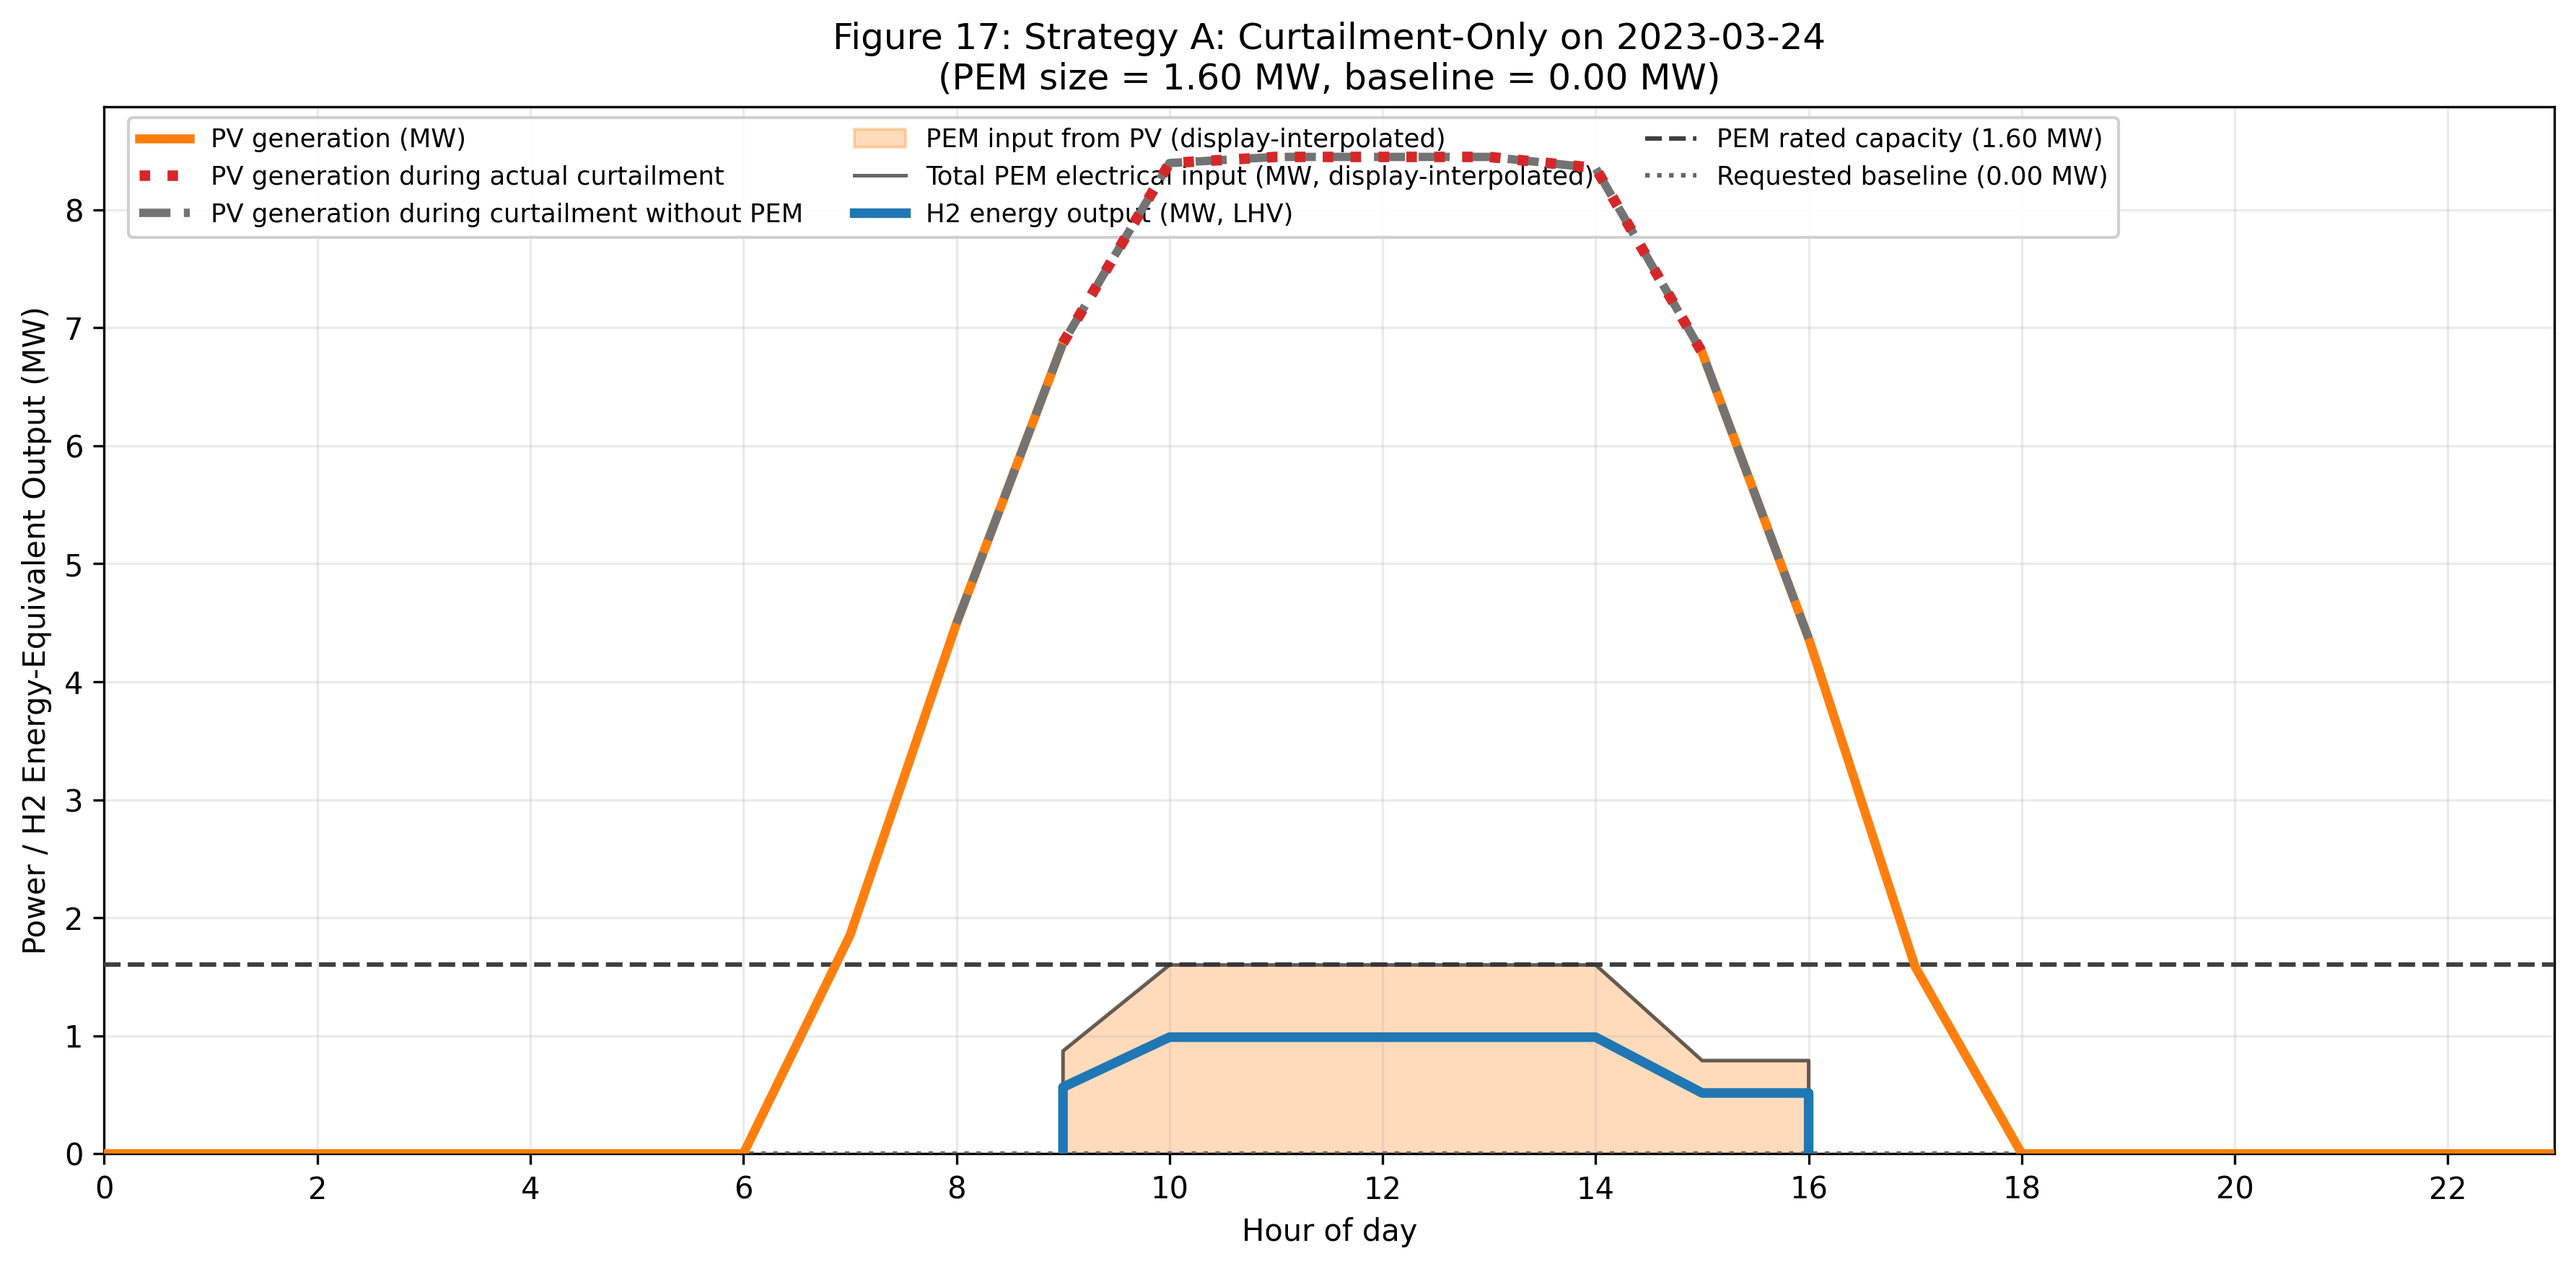
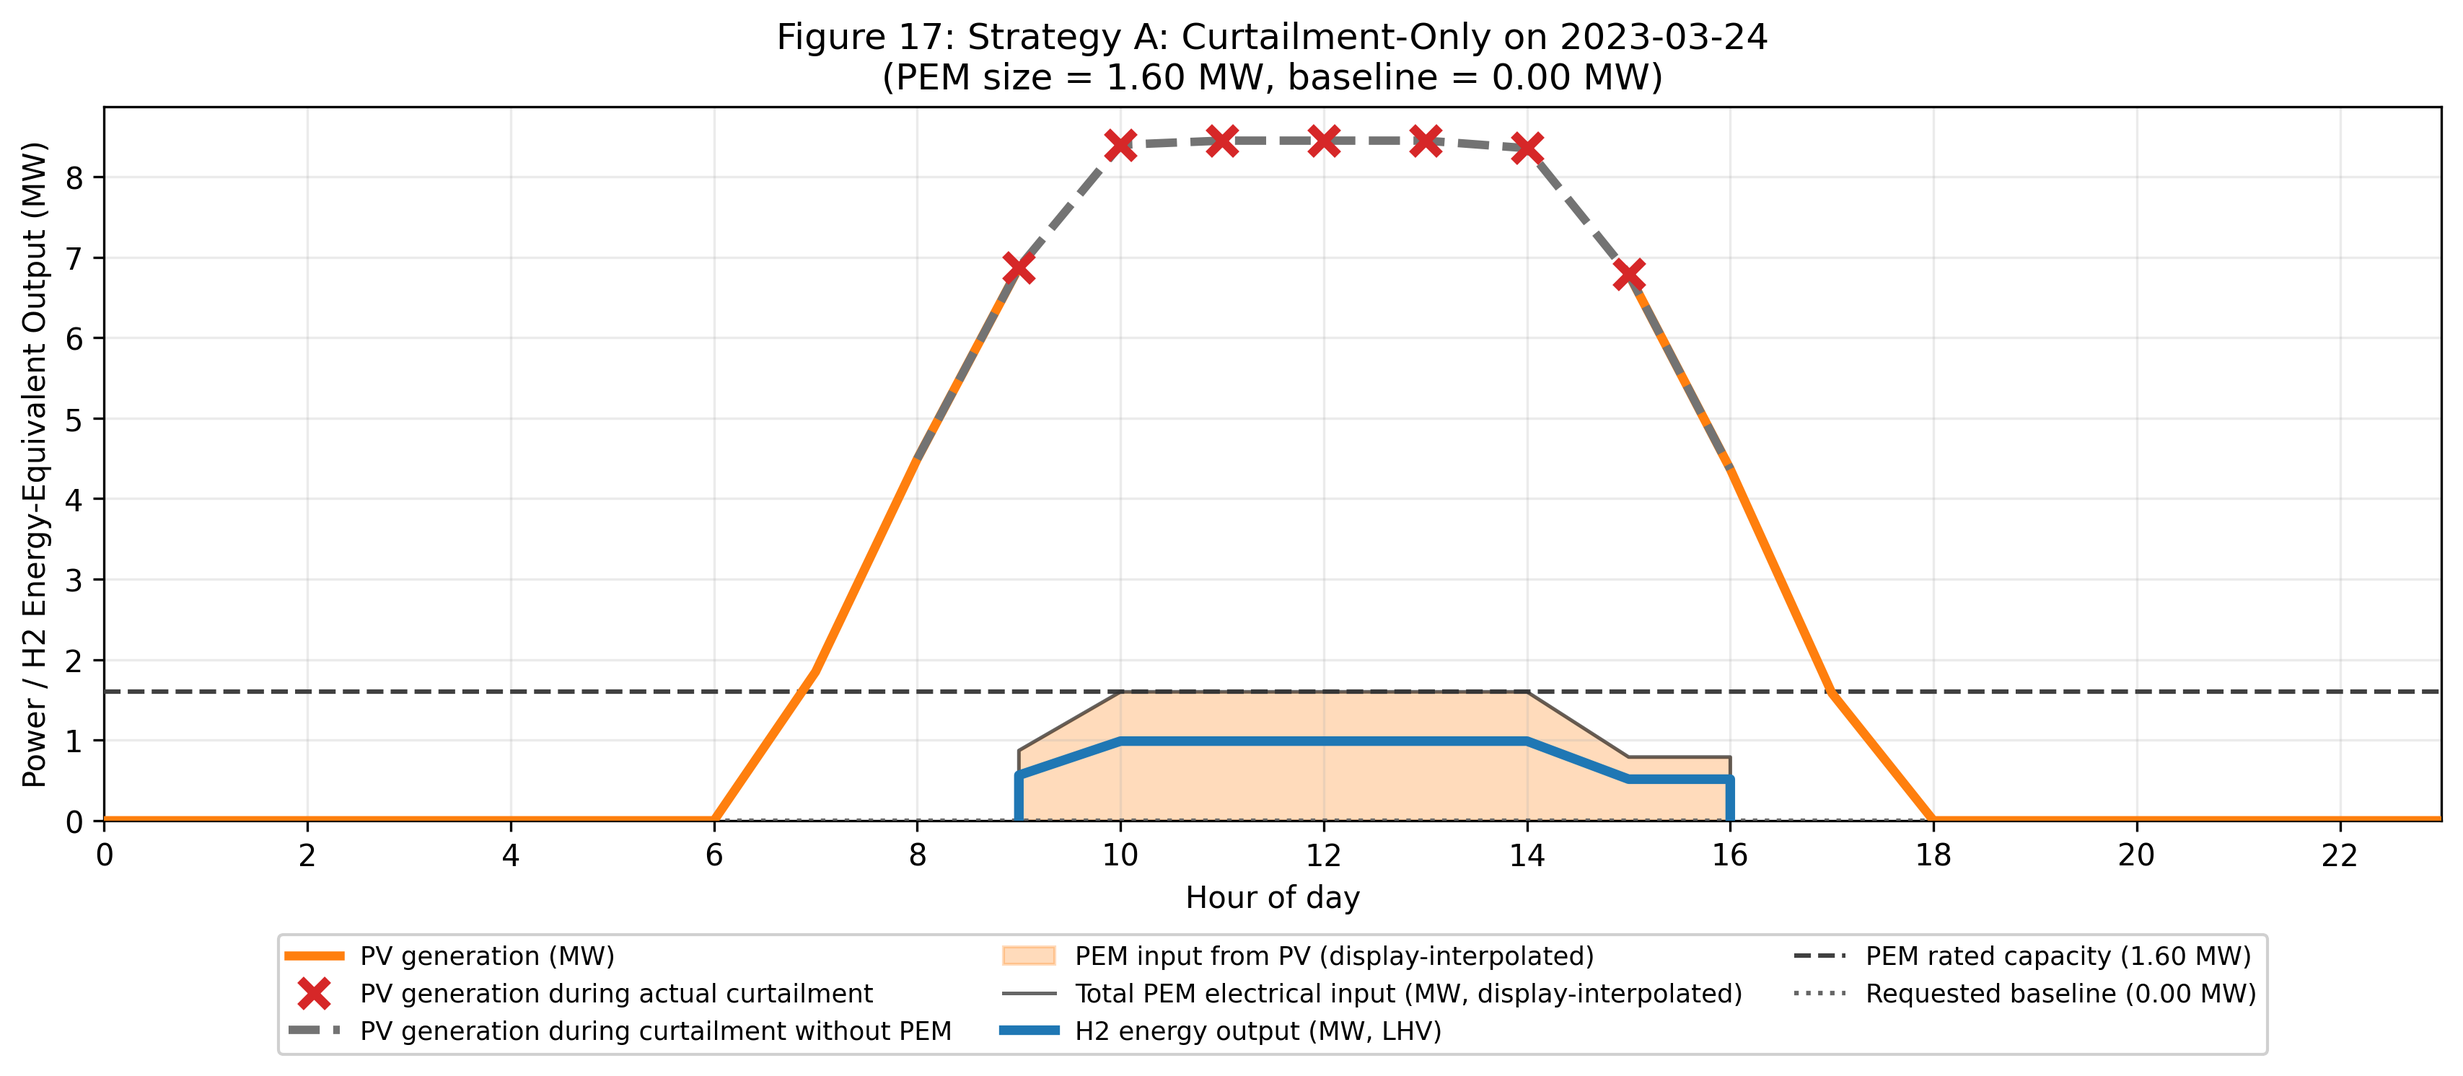
Place dispatch legends below axes and use bold red curtailment crosses

Changed region(s): [[0.0, 0.0, 0.9936, 0.9866], [0.9625, 0.6166, 0.9936, 0.6475]]

diff --git a/main.py b/main.py
@@ -4076,7 +4076,7 @@ def plot_daily_dispatch(df, selected_pem_mw, selected_grid_limit_mw, date_string
         gross_display_mask, pv_display_mw, np.nan
     )
 
-    # Orange outside actual curtailment, red dotted during actual curtailment.
+    # Orange outside actual curtailment, thick red crosses during actual curtailment.
     # No continuous orange curve remains underneath the red segment.
     pv_line_display_mw = np.where(
         ~actual_curtailment_mask,
@@ -4107,8 +4107,10 @@ def plot_daily_dispatch(df, selected_pem_mw, selected_grid_limit_mw, date_string
         hours,
         curtailed_pv_overlay_mw,
         color="tab:red",
-        linestyle=":",
-        linewidth=3.5,
+        linestyle="None",
+        marker="x",
+        markersize=9,
+        markeredgewidth=3,
         label="PV generation during actual curtailment",
         zorder=7
     )
@@ -4246,11 +4248,11 @@ def plot_daily_dispatch(df, selected_pem_mw, selected_grid_limit_mw, date_string
     ax_pv.legend(
         handles,
         labels,
-        loc="upper left",
-        bbox_to_anchor=(0.01, 0.99),
+        loc="upper center",
+        bbox_to_anchor=(0.5, -0.16),
         borderaxespad=0.0,
         fontsize=7.8 if strategy == "hybrid" else 8.5,
-        ncol=4 if strategy == "hybrid" else 3,
+        ncol=3,
         frameon=True,
         framealpha=0.92,
     )
@@ -4283,7 +4285,7 @@ def plot_daily_dispatch(df, selected_pem_mw, selected_grid_limit_mw, date_string
         f"H2={h2_day_kg:.1f} kg"
     )
 
-    fig.tight_layout(rect=(0, 0.035 if pv_display_correction_note else 0, 1, 1))
+    fig.subplots_adjust(left=0.085, right=0.985, top=0.86, bottom=0.31)
     output_strategy_label = "strategy_b" if strategy == "hybrid" else "strategy_a"
     save_figure_png(fig, 
         os.path.join(FIGURES_DIR, f"figure{fig_number:02d}_{output_strategy_label}_daily_dispatch.png"),
